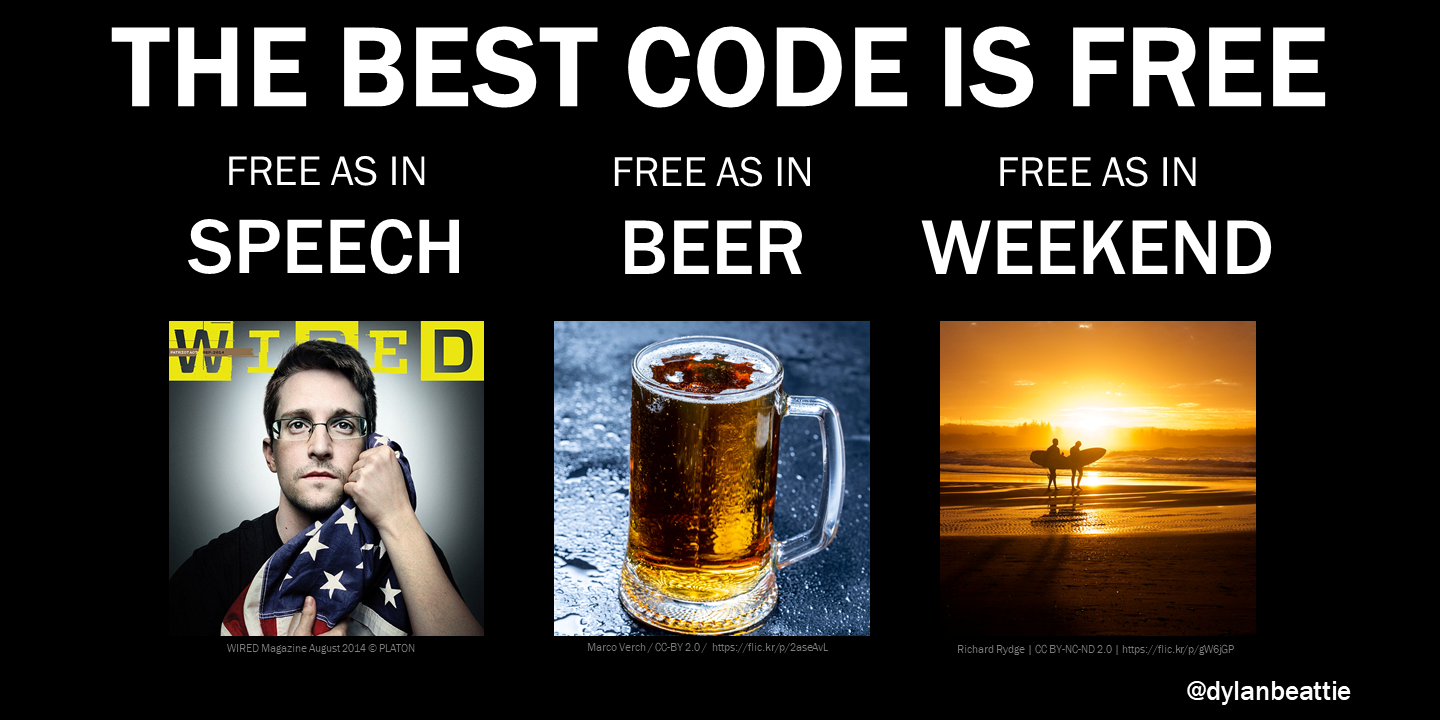
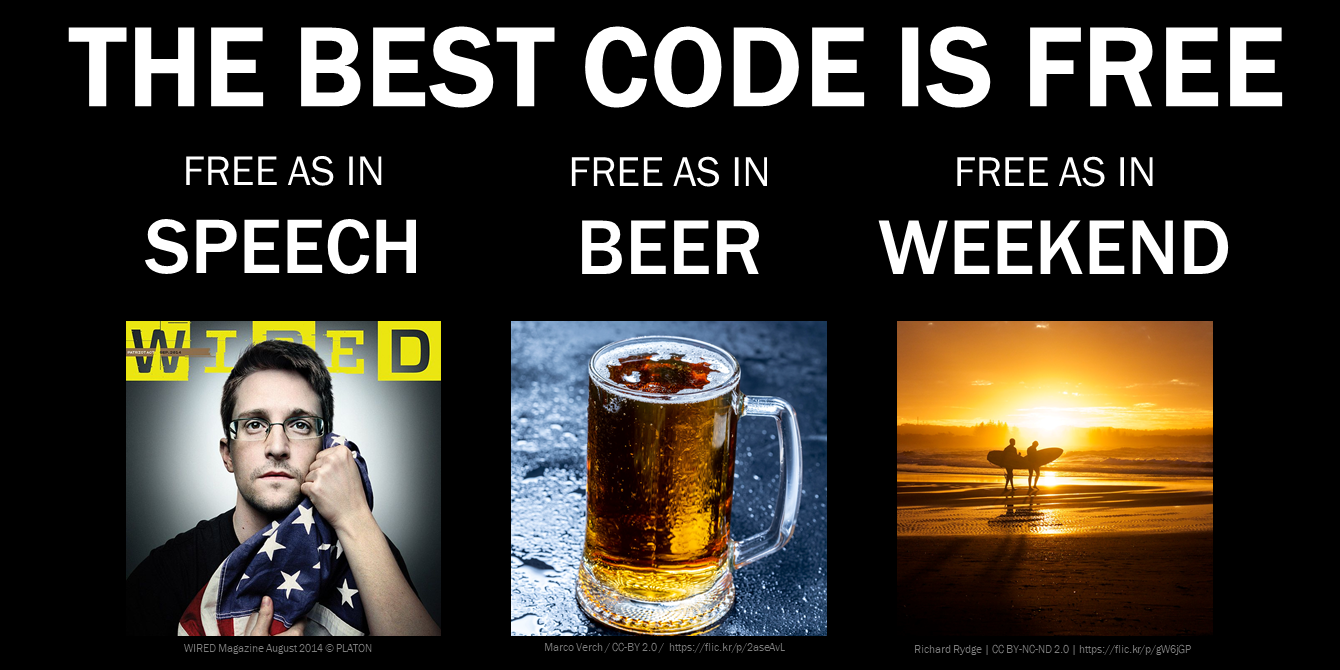
JPEG versions of opengraph images

diff --git a/_articles/the-cost-of-code/index.md b/_articles/the-cost-of-code/index.md
@@ -7,7 +7,7 @@ summary: A written version of a talk I presented at various software conferences
 css-class: transcript
 opengraph: 
   description: Dylan Beattie talks about the economics of programming, and the social and environmental cost of modern software development.
-  image: /articles/the-cost-of-code/og_image.png
+  image: /articles/the-cost-of-code/summary_large_image.jpg
 ---
 *This is a version of a talk that I presented at various software conferences and community events in  2019.*
 

diff --git a/index.md b/index.md
@@ -5,6 +5,6 @@
 layout: index
 title: home
 opengraph:
-  description: dylanbeattie.net
-  image: /images/dylan-linebreakers-oslo-by-glenn-henriksen.jpg
+  description: Dylan Beattie's personal web site, where he writes about code, technology and travel, and shares funny music videos about software development.
+  image: /images/summary_large_image.jpg
 ---
